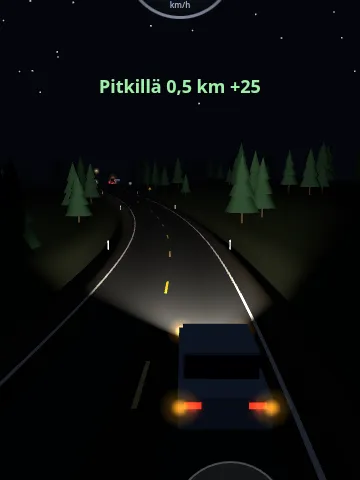
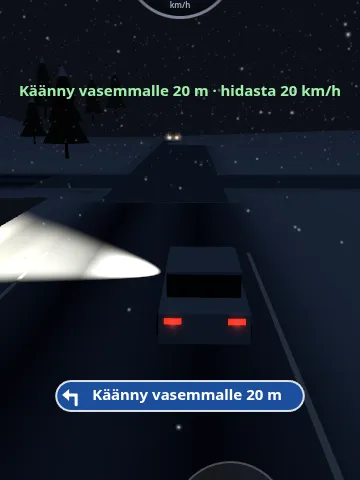
Yöajo v18: turn left within the junction from the correct lane (#450)
* Yöajo v18: move the published version and tests

* Yöajo v18: keep left turns inside the junction and yield to oncoming traffic

* Yöajo v18: keep the careful test driver clear of traffic before turns

---------

diff --git a/games/yoajo/v18/risteys.js b/games/yoajo/v18/risteys.js
@@ -8,8 +8,10 @@
 
 // How many turns each leg has, legs 1–11. Legs 1–2 turn off the motorway, the rest at crossroads.
 const TURNS = [1, 1, 1, 1, 2, 2, 3, 3, 1, 1, 1];   // v15: Lapland's legs 9–11
-// A crossroads turns a quarter round on a radius of 28 m: above about 40 km/h on a dry road the car
+// A left crossroads has an 8 m corner inside the junction, taken at about 18 km/h.
+// The wider right-hand corner turns a quarter round on a radius of 28 m: above about 40 km/h on a dry road the car
 // slides wide (game.js's bend rule). An exit ramp bends 0.6 rad on 70 m: fine at 50–60.
+const LEFT_RADIUS = 8, LEFT_EASE = 2, LEFT_SPEED = 18;
 const TURN_KIND = { ramppi: { R: 70, angle: 0.6 }, risteys: { R: 28, angle: Math.PI / 2 } };
 // The bend comes on over TURN_EASE metres; by its end the driver has turned or gone straight on.
 const TURN_EASE = 8;
@@ -39,10 +41,14 @@ function turnLeg() {
     const th = road.TH[Math.round(a0 / SEG)];
     let dir = kind === 'ramppi' ? 1 : (k + level) % 2 ? -1 : 1;
     if (kind === 'risteys' && Math.abs(th) > 0.5) dir = -Math.sign(th);
-    const len = angle * R + TURN_EASE, a1 = a0 + Math.round(len / SEG) * SEG;
+    // The old 28 m left arc crossed the opposing lane long before the cross-road mouth.
+    // Keep the crossing inside that mouth, entering from the right-hand approach lane.
+    const radius = kind === 'risteys' && dir < 0 ? LEFT_RADIUS : R;
+    const ease = kind === 'risteys' && dir < 0 ? LEFT_EASE : TURN_EASE;
+    const len = angle * radius + ease, a1 = a0 + Math.round(len / SEG) * SEG;
     for (let i = Math.round((a0 - TURN_BEFORE) / SEG); i <= Math.round((a1 + TURN_AFTER) / SEG) && i < road.n; i++) {
-      const s = i * SEG, e = clamp(Math.min((s - a0) / TURN_EASE, (a1 - s) / TURN_EASE), 0, 1);
-      road.K[i] = s > a0 && s < a1 ? dir / R * e : 0;
+      const s = i * SEG, e = clamp(Math.min((s - a0) / ease, (a1 - s) / ease), 0, 1);
+      road.K[i] = s > a0 && s < a1 ? dir / radius * e : 0;
     }
     // The arc's curvature sums a little short of `angle` on the grid: scale it to turn exactly.
     let sum = 0; for (let i = Math.round(a0 / SEG); i <= Math.round(a1 / SEG); i++) sum += road.K[i] * SEG;
@@ -54,7 +60,7 @@ function turnLeg() {
       road.Y[i] = lerp(road.Y[i], y0, w * w * (3 - 2 * w));
     }
     layOut();
-    road.turns.push({ a0, a1, dir, kind, R, to: leg.to, on: STRAIGHT_ON[level - 1] || '', told: 0, done: false, spawned: false, waited: false, unsafe: false });
+    road.turns.push({ a0, a1, dir, kind, R: radius, to: leg.to, on: STRAIGHT_ON[level - 1] || '', told: 0, done: false, spawned: false, waited: false, unsafe: false });
   }
   for (const J of road.turns) {
     frameTurn(J);
@@ -113,7 +119,7 @@ function armDist(px, pz) {
 function turnCruise(s) {
   let v = 1e9;
   for (const J of road.turns || []) {
-    const safe = (J.kind === 'risteys' ? 30 : 50) / KMH * Math.min(1, WEATHER[leg.weather].grip + 0.25);
+    const safe = (J.kind === 'risteys' ? (J.dir < 0 ? LEFT_SPEED : 30) : 50) / KMH * Math.min(1, WEATHER[leg.weather].grip + 0.25);
     const d = s < J.a0 ? J.a0 - s : s > J.a1 ? s - J.a1 : 0;
     v = Math.min(v, Math.sqrt(safe * safe + 2 * 2.5 * d));
   }
@@ -127,7 +133,7 @@ function turnTick(dt) {
   P.signal = 0;
   if (!J) return;
   const d = J.a0 - P.s, side = J.dir > 0 ? 'oikealle' : 'vasemmalle';
-  if (J.told < 1 && d < SIGN_FAR) { J.told = 1; say(`Käänny ${side} ${Math.round(d / 10) * 10} m`, true); }
+  if (J.told < 1 && d < SIGN_FAR) { J.told = 1; say(`Käänny ${side} ${Math.round(d / 10) * 10} m${J.kind === 'risteys' && J.dir < 0 ? ' · hidasta 20 km/h' : ''}`, true); }
   // The car coming from the road ahead at a left turn, released so that it is there about when the player is.
   // It sets off as far up its road as it takes the player to reach the turn at the speed the turn
   // is taken at (turnCruise), so the two meet there unless one of them waits.
@@ -171,16 +177,16 @@ function wrongRoad(dt) {
 // Off the road in a turn's bend is too fast for it.
 function ditchWhy() {
   const J = !P.wrong && turnAt(P.s - 4);
-  return J && P.v * KMH > (J.kind === 'risteys' ? 35 : 55) ? `Ajoit ojaan: liian lujaa ${J.kind === 'risteys' ? 'risteykseen' : 'rampille'}.` : 'Ajoit ojaan.';
+  return J && P.v * KMH > (J.kind === 'risteys' ? (J.dir < 0 ? LEFT_SPEED + 5 : 35) : 55) ? `Ajoit ojaan: liian lujaa ${J.kind === 'risteys' ? 'risteykseen' : 'rampille'}.` : 'Ajoit ojaan.';
 }
 // The car from the road ahead at a left turn (from move in game.js). It stops at the crossing
-// while the player's car is in it, and once through the crossing it is an ordinary oncoming car.
+// only as an emergency response to an unsafe turn; normal oncoming traffic keeps priority.
+// Once through the crossing it is an ordinary oncoming car.
 function crosser(t, dt) {
   const J = t.arm, along = t.s - J.a0;
   let v = ARM_V;
-  const inside = !P.wrong && P.s > J.a0 - 2 && P.s < J.a1 + 4;
   if (t.yieldT > 0) t.yieldT -= dt;
-  if ((inside || t.yieldT > 0) && along > J.C + 6) v = Math.min(v, Math.sqrt(2 * 5 * Math.max(0, along - J.C - 10)));
+  if (t.yieldT > 0 && along > J.C + 6) v = Math.min(v, Math.sqrt(2 * 5 * Math.max(0, along - J.C - 10)));
   t.v += clamp(-v - t.v, -2.5 * dt, 6 * dt);
   t.s += t.v * dt;
   // Past the crossing it is on the player's road: no longer on the arm, so it is hit and drawn there.

diff --git a/games/yoajo/v18/view.js b/games/yoajo/v18/view.js
@@ -512,6 +512,8 @@ function markings(snowy, buried) {
   const pos = [], col = [], white = new THREE.Color('#e8e8e2'), yellow = new THREE.Color('#e7b723');
   function strip(s0, s1, lat, w, c) {
     for (let s = s0; s < s1; s += 4) {
+      // A junction is open paving, not a marked bend through the opposing lane.
+      if (road.turns.some(J => J.kind === 'risteys' && J.dir < 0 && s + 4 > J.a0 && s < J.a1)) continue;
       const e = Math.min(s + 4, s1), a = worldAt(s, lat - w / 2, 0.06), b = worldAt(s, lat + w / 2, 0.06), d = worldAt(e, lat - w / 2, 0.06), f = worldAt(e, lat + w / 2, 0.06);
       pos.push(...a, ...b, ...d, ...b, ...f, ...d);
       for (let k = 0; k < 6; k++) col.push(c.r, c.g, c.b);
@@ -943,7 +945,16 @@ function draw3d(now) {
   // v14: through a tight turn the camera looks less far ahead, at the bend and not across its corner.
   const inTurn = (road.turns || []).some(J => P.s + CAM_LOOK > J.a0 && P.s - 10 < J.a1) && !P.wrong;
   const look = inTurn ? CAM_LOOK / (1 + 2.5 * Math.abs(headingAt(P.s + CAM_LOOK) - headingAt(P.s))) : CAM_LOOK;
-  const sh = shake * 0.12, cp = carAt(P.s - CAM_BACK, P.lat * 0.85, CAM_UP), ct = carAt(P.s + look, P.lat * 0.6, 0);
+  const sh = shake * 0.12;
+  let cp = carAt(P.s - CAM_BACK, P.lat * 0.85, CAM_UP), ct = carAt(P.s + look, P.lat * 0.6, 0);
+  // The compact left corner is shorter than the camera's trailing distance. Follow the car's
+  // heading there; sampling the old approach behind it would put the car outside the picture.
+  const compact = !P.wrong && road.turns.some(J => J.dir < 0 && J.kind === 'risteys' && P.s > J.a0 - CAM_BACK && P.s < J.a1 + CAM_BACK);
+  if (compact) {
+    const q = carAt(P.s, P.lat), th = carHeading(P.s), fx = Math.sin(th), fz = -Math.cos(th);
+    cp = [q[0] - fx * CAM_BACK, q[1] + CAM_UP, q[2] - fz * CAM_BACK];
+    ct = [q[0] + fx * 12, q[1], q[2] + fz * 12];
+  }
   camera.position.set(cp[0] + (Math.random() - 0.5) * sh, cp[1] + (Math.random() - 0.5) * sh, cp[2]);
   camera.lookAt(ct[0], ct[1], ct[2]);
 

diff --git a/tests/test_yoajo_v18.py b/tests/test_yoajo_v18.py
@@ -1,4 +1,5 @@
-"""Yöajo v17 (#440): stars from driving points; time is only a high-score bonus.
+"""Yöajo v18 (#440): left turns cross the opposing lane inside the junction.
+Yöajo v17 (#440): stars from driving points; time is only a high-score bonus.
 Yöajo v16 (#440): the endless night, stage after stage, each harder, with its own list.
 Yöajo v15 (#440): three Lapland legs on to Utsjoki with reindeer herds, a tank to fill at a
 service station, and the whole trip's totals ("Koko matka").
@@ -12,7 +13,7 @@ the unsafe-overtake rule within 130 m (v4–v7: 180 m)."""
 
 from conftest import ROOT, turn
 
-URL = "games/yoajo/v17/"
+URL = "games/yoajo/v18/"
 
 # A careful driver: keeps to the lane, overtakes only when nobody is coming and never starts an
 # overtake with a solid centre line within 250 m (once out, it goes on), dips the high beams for
@@ -29,7 +30,9 @@ BOT = """(legs) => { maxLeg = 11; const out = [];
       let want = LANE;
       const slow = things.filter(t => t.v >= 0 && !(t.kind === 'liittyja' && t.plan === 'wait') && t.lat > -1 && t.s > P.s - 3 && t.s - P.s < 50 && t.kind !== 'takaa' && t.kind !== 'hirvi' && t.kind !== 'poro'
         && !t.parked && t.kind !== 'konstaapeli' && t.kind !== 'partio')
-        .sort((a, b) => a.s - b.s)[0];
+        // A faster car can hide a much slower tractor farther ahead. Follow the vehicle whose
+        // braking point is nearest, rather than just the nearest centre position.
+        .sort((a, b) => (a.s - a.len/2 - Math.max(0,P.v-a.v)**2/8) - (b.s - b.len/2 - Math.max(0,P.v-b.v)**2/8))[0];
       const onc = things.some(t => t.v < 0 && t.s + t.len / 2 > P.s - 5 && t.s - P.s < 330 && vehicle(t));
       const head = things.find(t => t.v < 0 && t.lat > 0.5 && t.s > P.s && t.s - P.s < 260);
       if (slow && !onc && !road.works.some(w => w.stop - P.s < 300 && P.s < w.far) && !road.broken.some(b => b.s - P.s < 250 && b.s > P.s - 10) && slow.kind !== 'kavelija' && (P.lat < 0.5 || ![0, 50, 100, 150, 200, 250].some(k => noPass(P.s + k)))) want = -LANE;
@@ -65,7 +68,8 @@ BOT = """(legs) => { maxLeg = 11; const out = [];
       // v14: no overtaking near a turn, slow for it and steer into it; at a left turn wait for a car
       // coming from the road ahead; stop for a train at the level crossing.
       const J = turnAhead(), jd = J ? J.a0 - P.s : 1e9;
-      if (jd < 300 && jd > -60 && !head && !amb && !load && !bk) want = Math.max(want, LANE);
+      // Do not cut into a vehicle still alongside just to prepare for a turn.
+      if (jd < 300 && jd > -60 && !head && !amb && !load && !bk && !(P.lat < 0.5 && (beside || slow))) want = Math.max(want, LANE);
       const cross = J && J.kind === 'risteys' && J.dir < 0 && jd > 1 && things.some(t => t.arm === J && t.kind === 'risteava'
         && t.s - J.a0 > J.C - 2 && (t.s - J.a0 - J.C) / Math.max(1, -t.v) < GAP_TIME + 1.5), crossStop = cross ? jd - 3 : 1e9;
       const rx = road.rail.find(x => x.on && x.t < RAIL_UP0 + 0.5 && x.s - P.s > 0 && x.s - P.s < 250), railStop = rx ? rx.s - 10 - P.s : 1e9;
@@ -457,7 +461,7 @@ from test_hiljaiset_aanet import opens_and_plays_with_the_quiet_library, real  #
 
 
 def test_it_opens_and_plays_with_the_quiet_library(real, context):
-    opens_and_plays_with_the_quiet_library(real, context, "games/yoajo/v17")
+    opens_and_plays_with_the_quiet_library(real, context, "games/yoajo/v18")
 
 
 # ---- v12 (#440): the police ----
@@ -1446,3 +1450,59 @@ def test_the_menu_and_the_end_screen_fit_at_every_size(site, context):
         assert all(0 <= e[1] and e[1] + e[3] <= w and 0 <= e[2] and e[2] + e[4] <= h for e in r["end"]), (w, h, r)
         assert page.errors == []
         page.close()
+
+
+def test_left_turn_crosses_the_opposing_lane_only_inside_the_junction(site, context):
+    page = open_game(site, context)
+    r = page.evaluate("""() => { HOLD=true; maxLeg=11; const out=[];
+      for(let n=3;n<=11;n++) {newLeg(n); for(const J of road.turns.filter(j=>j.dir<0)) {
+        const early=[],outside=[]; for(let s=J.a0;s<=J.a1;s+=0.2) {
+          const q=worldAt(s,LANE), dx=q[0]-J.x,dz=q[2]-J.z;
+          const along=dx*J.fx+dz*J.fz, lat=dx*J.rx+dz*J.rz;
+          if(lat<0 && lat>-EDGE && along<J.C-EDGE) early.push({along,lat});
+          if(Math.abs(lat)>EDGE && Math.abs(along-J.C)>EDGE)outside.push({along,lat});
+        } const e=worldAt(J.a1,LANE),endLane=(e[0]-J.x)*J.fx+(e[2]-J.z)*J.fz-J.C;
+        out.push({n,early,outside,endLane});
+      }} return out; }""")
+    assert r and all(not x['early'] and not x['outside'] and 0 < x['endLane'] < 3.5 for x in r), r
+
+
+def test_oncoming_traffic_keeps_priority_over_a_car_waiting_to_turn_left(site, context):
+    page = open_game(site, context)
+    r = page.evaluate("""() => {HOLD=true;maxLeg=11;newLeg(5);const J=road.turns.find(j=>j.dir<0);
+      P.s=J.a0+1;P.v=0; const t=add('risteava',{s:J.a0+J.C+15,lat:-LANE,v:-ARM_V,arm:J});
+      for(let i=0;i<60;i++)crosser(t,1/60);
+      return {s:t.s-J.a0,speed:-t.v,expected:J.C+15-ARM_V}; }""")
+    assert abs(r['s']-r['expected']) < 0.01 and abs(r['speed']-50/3.6)<0.01,r
+
+
+def test_the_car_stays_in_picture_through_a_compact_left_turn(site, context):
+    page = open_game(site, context)
+    for width,height in ((390,844),(740,360)):
+        page.set_viewport_size({"width":width,"height":height})
+        page.evaluate("() => {HOLD=true;maxLeg=11;newLeg(5);}")
+        page.wait_for_function("!!V3")
+        r=page.evaluate("""() => {const J=road.turns.find(j=>j.dir<0),out=[];P.lat=LANE;
+          for(let s=J.a0-15;s<J.a1+15;s+=1) {P.s=s;draw3d(performance.now());
+            out.push(screenOf(P.s,P.lat,1));}return {out,W,H};}""")
+        assert all(q and 0.1*r['W']<q['x']<0.9*r['W'] and 0.1*r['H']<q['y']<0.9*r['H'] for q in r['out']), r
+
+
+def test_a_thumb_turns_left_from_its_own_lane_through_the_junction(site, context):
+    page = open_game(site, context)
+    page.set_viewport_size({"width":390,"height":844})
+    r=page.evaluate("""() => {HOLD=true;maxLeg=11;newLeg(5);setControls('yksi');
+      things=[];events=[];road.cams=[];road.checks=[];road.holes=[];
+      const J=road.turns.find(j=>j.dir<0);J.spawned=true;
+      P.s=J.a0-6;P.v=14/KMH;P.lat=LANE;P.vl=0;draw();
+      const home=stickHome(),box=c.getBoundingClientRect();
+      const ev=(type,dx,dy)=>c.dispatchEvent(new PointerEvent(type,{pointerId:71,clientX:box.left+home.x+dx,clientY:box.top+home.y+dy,bubbles:true,cancelable:true}));
+      ev('pointerdown',0,0);let minLat=LANE;
+      for(let i=0;i<900 && mode==='drive' && P.s<J.a1+5;i++) {
+        const strength=2.6+Math.min(P.v,25)*0.15;
+        const steer=clamp((curveAt(P.s)*P.v*P.v*0.55-2*(P.lat-LANE)-0.8*P.vl)/strength,-1,1);
+        ev('pointermove',Math.sign(steer)*Math.pow(Math.abs(steer),1/1.4)*STICK,8);
+        step(1/60);minLat=Math.min(minLat,P.lat);
+      }ev('pointerup',0,0);
+      return {mode,why:crashWhy,wrong:!!P.wrong,done:J.done,s:P.s,end:J.a1,minLat,lat:P.lat};}""")
+    assert r['mode']=='drive' and not r['wrong'] and r['done'] and r['s']>r['end'] and r['minLat']>0,r

diff --git a/tests/test_hiljaiset_aanet.py b/tests/test_hiljaiset_aanet.py
@@ -21,7 +21,7 @@ VERSIONS = [
     "games/orava/v6", "games/pallorata/v5", "games/pilkki/v6", "games/pituushyppy/v17",
     "games/puhelinkoppi/v9", "games/seivashyppy/v15", "games/skuutti/v5", "games/sormiskeitti/v10",
     "games/tikka/v7", "games/trampoliini/v11", "games/voimistelu/v13", "games/vuoristorata/v4",
-    "games/yoajo/v17", "games/last-signal/v16", "games/vauvan-syotto/v4",
+    "games/yoajo/v18", "games/last-signal/v16", "games/vauvan-syotto/v4",
 ]
 
 # The field events' newest versions, whose "📣 Kannusta" chime Eero found too loud (#355).

diff --git a/docs/diagrams/yoajo-matka.md b/docs/diagrams/yoajo-matka.md
@@ -35,6 +35,8 @@ flowchart TD
   C -- Aura-auto --> AU[Lumipilvi takana: ohita vasta kun näet eteen]
   C -- Musta jää --> MJ[Kiiltävä kohta: pito puolet, ei jarrua eikä äkkiohjausta]
   C -- Risteys tai liittymä, jossa käännytään --> KR{Käännyitkö opastetusta?}
+  KR -- Vasemmalle omalta kaistalta --> KV[Risteyksen sisällä vastakkaisen kaistan yli, noin 20 km/h]
+  KV --> KR1
   KR -- Kyllä, hiljaa --> KR1[Vilkku syttyy itsestään, matka jatkuu]
   KR -- Liian kovaa --> X
   KR -- Ajoit ohi --> KR2[Väärä tie: osuus päättyy]
@@ -57,7 +59,7 @@ flowchart TD
   S --> KM[Koko matka: tähdet, pisteet, km, sakot, hirvet]
   LY -- Kolari, nukahdus, poliisi, tankki tyhjä tai väärä tie --> LT[Loppui: km ja pisteet listalle loputon]
   X --> A
-  class A,B,LY,P0,SU,EK,AU,MJ,FA,KR1,PO blue
+  class A,B,LY,P0,SU,EK,AU,MJ,FA,KR1,KV,PO blue
   class C,P,PK,TV,RA,AM,TR,F,KR amber
   class PK1,TV1,RA1,AM1,TR1,EK1,KR4 teal
   class PX,PS,TV2,RA2,AM2,FX,X,KR2,KR3 rose
@@ -92,11 +94,12 @@ flowchart TD
 - **Erikoiskuljetus vastaan**: v13 (legs 4, 7): two escort cars with orange beacons and between them a 16 m house 4.6 m wide (`loadMesh()`), half over the centre line, at 40 km/h; cars behind it follow at its speed. From 400 m "Erikoiskuljetus vastaan: oikeaan reunaan ja alle 50". Over 50 km/h as it goes by: "Vaaratilanne: ohitit erikoiskuljetuksen liian kovaa." and the leg ends; otherwise +20 (`tally.erikois`).
 - **Aura-auto**: v13 (legs 5–8): a snowplough at 40 km/h with orange beacons ahead in the player's lane; within 50 m behind it (`CLOUD_BACK`) its snow cloud whitens the screen, thickest close up. Overtaking it is worth 60.
 - **Musta jää**: v13 `iceAt()` and `gripAt()` (legs 5–8): up to two 50 m shiny patches, each after a "Liukas ajorata" sign 150 m before it; grip halves on them. "Musta jää: ei jarrua eikä äkkiohjausta".
-- **Risteys tai liittymä, jossa käännytään**: v14 `turnLeg()` in `games/yoajo/v14/risteys.js`, right after `makeRoad()`: 1, 1, 1, 1, 2, 2, 3, 3 turns on legs 1–8 (`TURNS`), an exit ramp to the right off the motorway on legs 1–2 (0.6 rad on 70 m) and a crossroads where Valtatie 4 turns a quarter round on 28 m from leg 3. Each bends the road itself, with 140 m straight before and 100 m after on level ground; the road straight on is drawn as a side road of its own (`frameTurn()`), and no trees grow inside the corner (`inCorner()` in `view.js`). Each leg is 400 m longer per turn (`LEGS` in `game.js`) and nothing else is placed within 250 m before a turn or 120 m after it, so everything v13 had still fits. Blue direction signs 600 m and 150 m before, on the turn's side (`suunta`); the far one steps out of a road event's stretch (`turnSigns()`) or a police check (`placeCheck()` in `poliisi.js`). From 600 m "Käänny oikealle/vasemmalle … m", and an arrow pill on the screen (`turnHint()`). Traffic cars slow for the turn too (`turnCruise()`).
+- **Risteys tai liittymä, jossa käännytään**: v14 `turnLeg()` in `games/yoajo/v14/risteys.js`, right after `makeRoad()`: 1, 1, 1, 1, 2, 2, 3, 3 turns on legs 1–8 (`TURNS`), an exit ramp to the right off the motorway on legs 1–2 (0.6 rad on 70 m) and a crossroads where Valtatie 4 turns a quarter round on 28 m from leg 3. v18 (#440 owner correction) replaces the early left ramp with an 8 m corner and 2 m easing, so the right-hand lane crosses the opposing lane only within the cross-road mouth and joins the right-hand lane of the left-going road. The incoming road remains straight up to this compact junction; `LEFT_SPEED` is 18 km/h for traffic and braking advice says 20 km/h. Right turns and motorway ramps retain their geometry. Each bends the road itself, with 140 m straight before and 100 m after on level ground; the road straight on is drawn as a side road of its own (`frameTurn()`), and no trees grow inside the corner (`inCorner()` in `view.js`). Each leg is 400 m longer per turn (`LEGS` in `game.js`) and nothing else is placed within 250 m before a turn or 120 m after it, so everything v13 had still fits. Blue direction signs 600 m and 150 m before, on the turn's side (`suunta`); the far one steps out of a road event's stretch (`turnSigns()`) or a police check (`placeCheck()` in `poliisi.js`). From 600 m "Käänny oikealle/vasemmalle … m", and an arrow pill on the screen (`turnHint()`). Traffic cars slow for the turn too (`turnCruise()`).
+- **Risteyksen sisällä vastakkaisen kaistan yli, noin 20 km/h**: v18 `turnLeg()` in `games/yoajo/v18/risteys.js` uses an 8 m left corner with 2 m easing; the player stays on the incoming right-hand lane until crossing the opposing lane within the cross-road mouth and leaves on the outgoing right-hand lane. `turnCruise()` slows traffic to 18 km/h; the warning advises 20 km/h.
 - **Käännyitkö opastetusta?**: v14 `turnTick()`: decided `TURN_EASE` (8 m) into the turn: the car has turned if it steered towards it within the last 33 m (`P.into`).
-- **Vilkku syttyy itsestään, matka jatkuu**: v14 `turnTick()` (Eero's choice: no signal buttons): within 150 m the blinker comes on by itself, to the turn's side, once the car slows under 60 km/h (a crossroads) or 80 (a ramp), steers into it, or reaches it; off once round. Going too fast: off the road in a turn's bend is "Ajoit ojaan: liian lujaa risteykseen." over 35 km/h, "… rampille." over 55 (`ditchWhy()`).
+- **Vilkku syttyy itsestään, matka jatkuu**: v14 `turnTick()` (Eero's choice: no signal buttons): within 150 m the blinker comes on by itself, to the turn's side, once the car slows under 60 km/h (a crossroads) or 80 (a ramp), steers into it, or reaches it; off once round. Going too fast: off the road in a turn's bend is "Ajoit ojaan: liian lujaa risteykseen." over 23 km/h for v18 left turns or 35 for right turns, "… rampille." over 55 (`ditchWhy()`).
 - **Väärä tie: osuus päättyy**: v14 `wrongRoad()` (Eero's choice): straight on past a turn, "Väärä tie!" and a red pill; the car drives on down the side road and 250 m on (`WRONG_LEN`) the leg ends, "Väärä tie: ajoit ohi käännöksen.", with a hint on the crash screen.
-- **Käännyit vastaantulijan eteen -50, hurjastelu**: v14: at a left turn a car comes from the road ahead (`crosser()`), set off so that it reaches the crossing about when the player does. Turning while it is under 4 s (`GAP_TIME`) from the crossing is −50 and counts as reckless (`tally.hurjastelu`); the car brakes and honks. Once through the crossing it leaves the side road (`t.arm = null`) and is an ordinary oncoming car on the player's road, drawn and hit there. A police car that sees it (`policeSaw()`) ends the leg, "Poliisi pysäytti: vaarallinen käännös.".
+- **Käännyit vastaantulijan eteen -50, hurjastelu**: v14: at a left turn a car comes from the road ahead (`crosser()`), set off so that it reaches the crossing about when the player does. Turning while it is under 4 s (`GAP_TIME`) from the crossing is −50 and counts as reckless (`tally.hurjastelu`); the car brakes and honks. Once through the crossing it leaves the side road (`t.arm = null`) and is an ordinary oncoming car on the player's road, drawn and hit there. A police car that sees it (`policeSaw()`) ends the leg, "Poliisi pysäytti: vaarallinen käännös.". v18: `crosser()` in `games/yoajo/v18/risteys.js` keeps the straight-through car at its normal speed while the player waits; only `yieldT`, set after an unsafe turn, requests emergency braking. `J.done` remains the branch-choice checkpoint eight metres into the turn, rather than the geometric end of the corner.
 - **Annoit tietä +20**: v14: stopped before the turn while that car came, then turned after it: +20 (`tally.kaannos`).
 - **Tasoristeys**: v14 `railCrossing()` and `roadTick()` in `tie.js` (leg 4, `ROAD_EVENTS`; v15 also leg 9, Rovaniemi → Sodankylä, in place of the wide load): its 360 m are kept first in `newLeg()` (`road.railAt`). 220 m before (`RAIL_WARN`) "Juna tulee: puomit laskeutuvat", the lights blink and a bell rings, the barriers come down from 1.5 s to 4 s, a train goes by from 6 s and they lift at 15–17 s. Cars queue before it. Driving between the barriers while they are down: "Ajoit puomien läpi tasoristeyksessä.", the leg ends.
 - **Juna menee ohi +20**: v14: stopped within 60 m before it while the barriers were down: +20 "Juna meni ohi" (`tally.juna`) once over.
